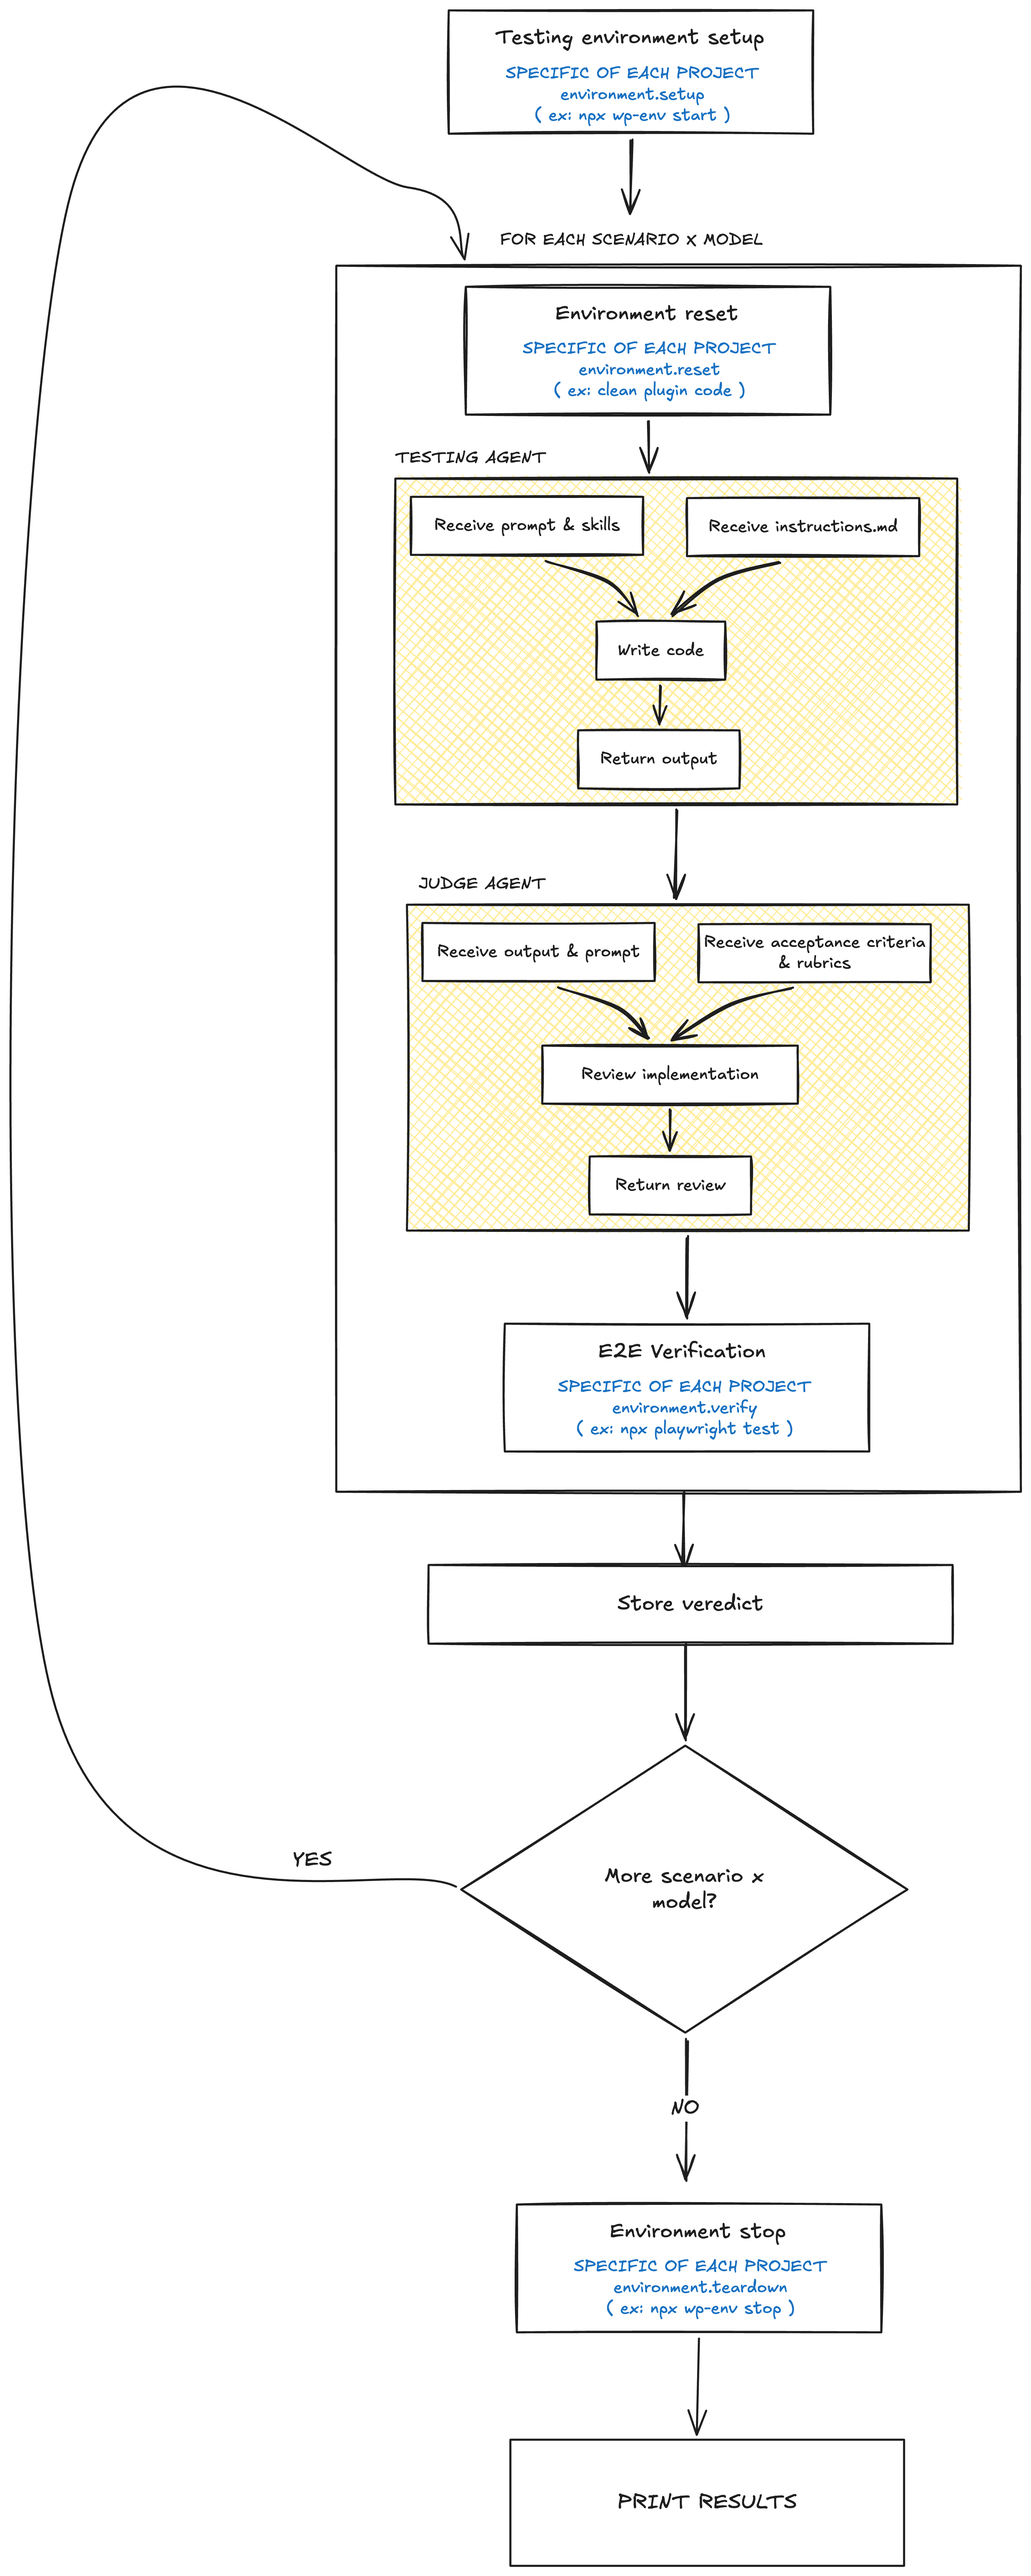
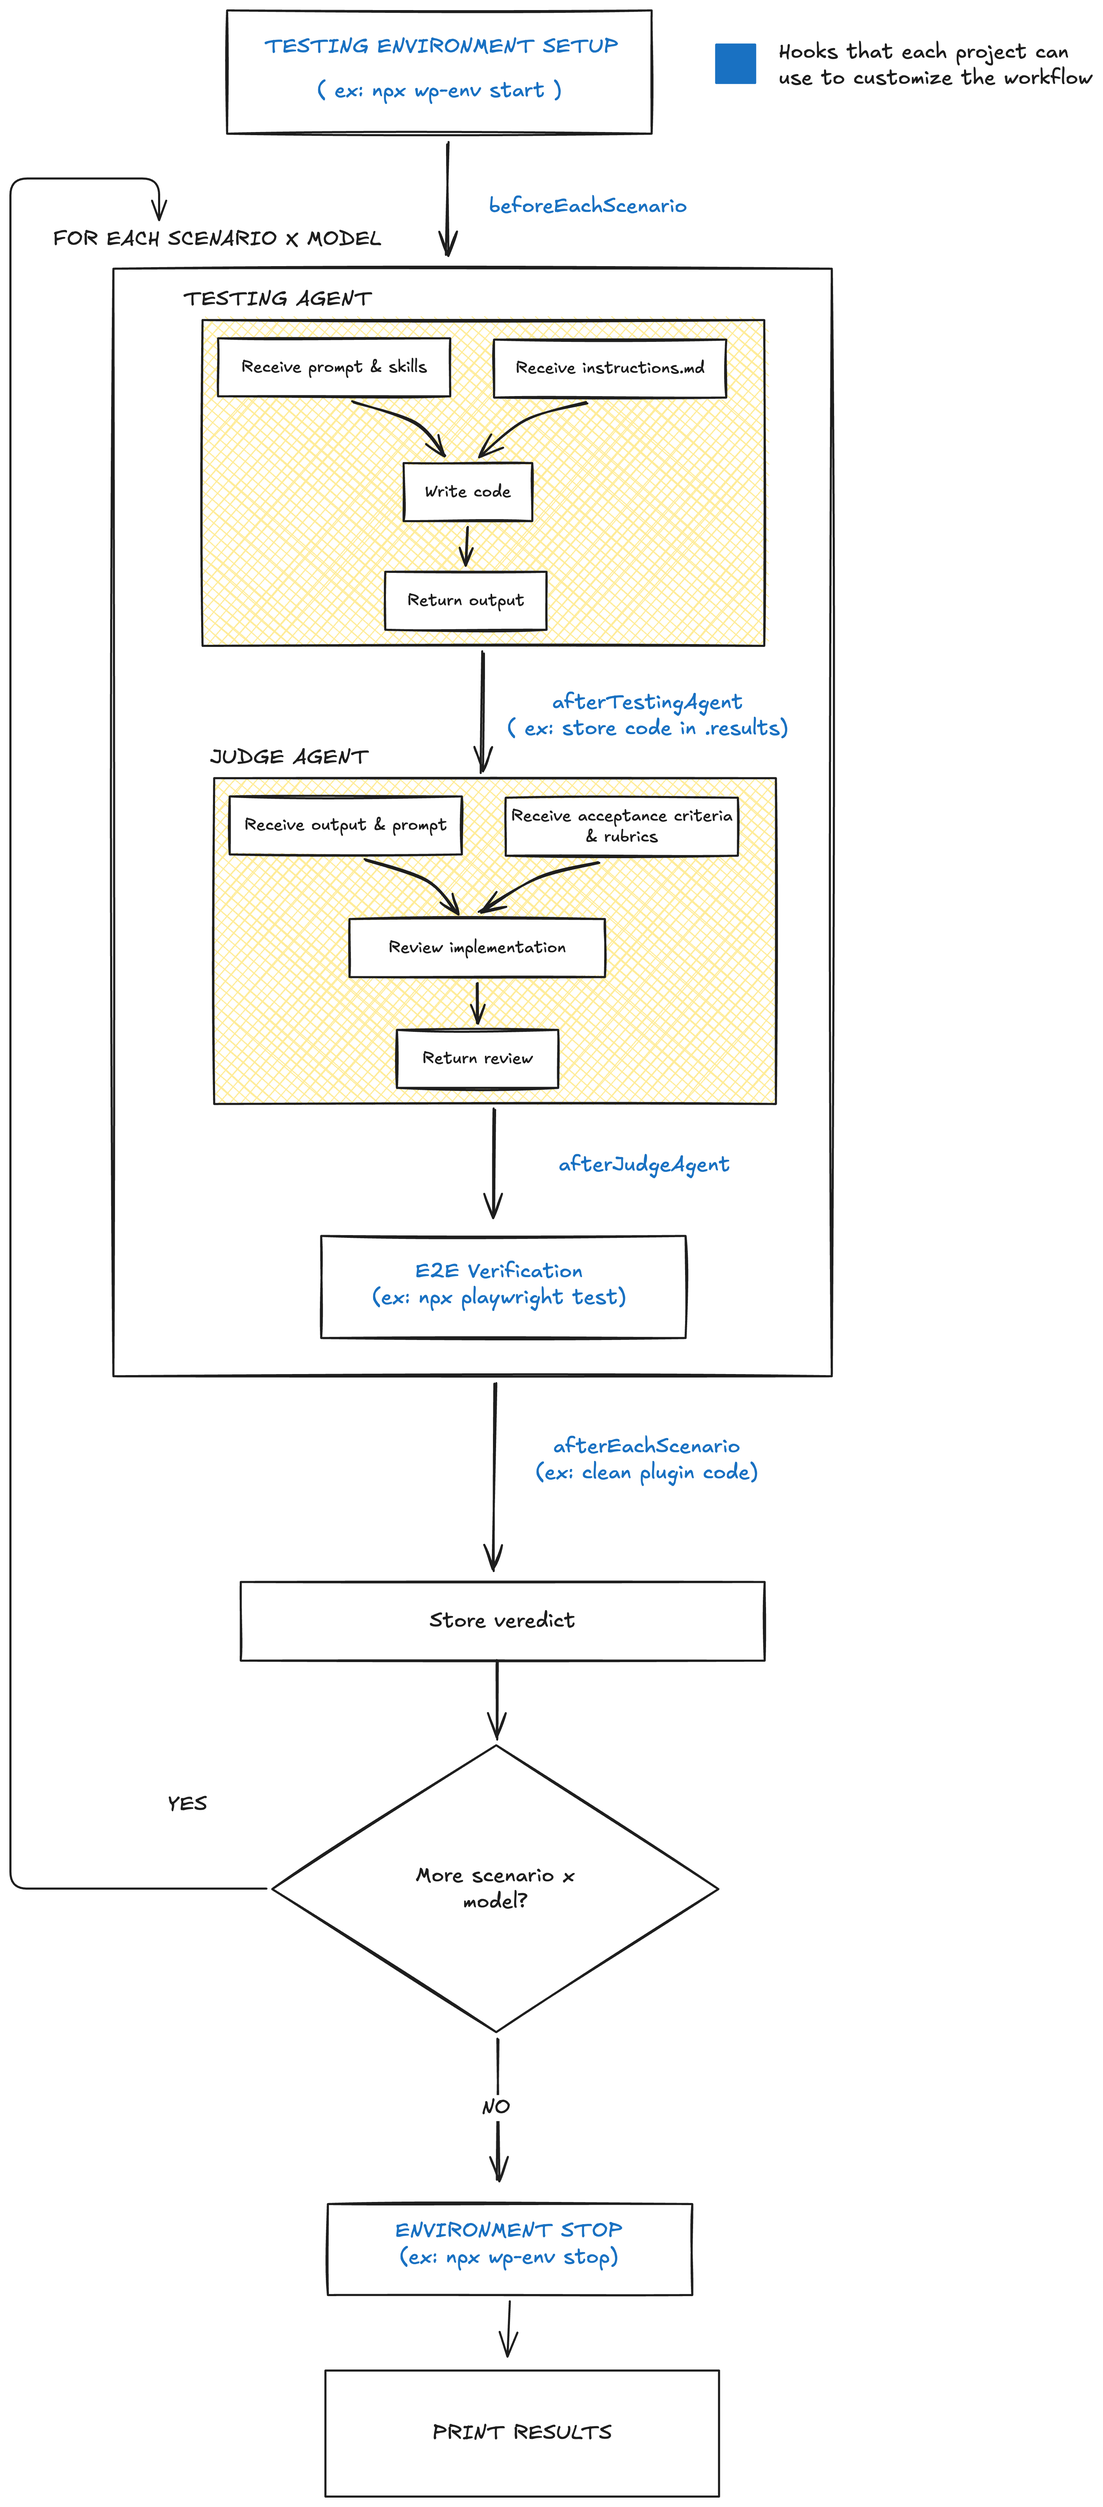
Update workflow

diff --git a/testing-project/eval/environment.md b/testing-project/eval/environment.md
@@ -4,22 +4,34 @@ How to operate the WordPress environment around each scenario run. All commands 
 
 This file is a prose spec for a future `environment.ts` that implements the harness `Environment` contract. Until that lands, an agent can follow these instructions directly.
 
+The harness executes the stages below in the order shown in `assets/skill-tester-workflow.png`:
+
+- **Lifecycle stages** (required): `## Setup`, `## Verify`, `## Teardown`. Every project must define what happens here.
+- **Hooks** (optional customization points): `## beforeEachScenario`, `## afterTestingAgent`, `## afterJudgeAgent`, `## afterEachScenario`. A hook section may be left as a no-op.
+
 ## Setup (once per run)
 
 Run:
 
     npm run env:start
 
-This boots `@wordpress/env`. WordPress comes up at http://localhost:8888 with `./eval/testing-plugin` mounted and activated.
+This boots `@wordpress/env`. WordPress comes up at http://localhost:8888 with `./eval/testing-plugin` mounted and activated in its seed state.
 
-## Reset (before each scenario)
+## beforeEachScenario
 
-Restore `eval/testing-plugin/` to its committed state so the agent starts every scenario from a clean slate:
+No-op for this project. Seed state is maintained by `## afterEachScenario` at the end of the previous pair; the first pair inherits the seed state from `## Setup`.
 
-- `eval/testing-plugin/index.php` matches its committed contents.
-- `eval/testing-plugin/src/blocks/testing-block/` contains only the committed seed files (the minimal `block.json`).
+## afterTestingAgent
 
-Any files the agent wrote during a previous scenario must be removed.
+Preserve the agent's produced plugin state immediately after the testing agent returns, so a human can inspect what each model wrote before downstream stages (judge, verify) run:
+
+    cp -R eval/testing-plugin/. <results-dir>/plugin-snapshot/
+
+`<results-dir>` is `.results/<run-id>/<model>/<scenario>/` — the same directory where `judge-result.json`, `e2e-result.json`, and `trace.json` are later written. Create the destination directory first if it does not exist.
+
+## afterJudgeAgent
+
+No-op for this project.
 
 ## Verify (after each scenario)
 
@@ -28,6 +40,59 @@ Run the scenario's end-to-end spec against the live environment:
     npm run test:e2e -- eval/scenarios/<scenario>/e2e.spec.mjs
 
 The verdict is pass when Playwright exits `0`, fail otherwise. Capture stdout and stderr as details.
+
+## afterEachScenario
+
+Restore `eval/testing-plugin/` to its seed state so the next pair starts clean. The procedure, no git involved:
+
+1. **Empty the directory without removing it.** `wp-env` bind-mounts `eval/testing-plugin/` into the container at `env:start`; if the directory's inode is replaced, the mount detaches and WordPress stops seeing the plugin. Use `rm -rf eval/testing-plugin/*` (optionally plus `rm -rf eval/testing-plugin/.[!.]*` if dotfiles are expected) — never `rm -rf eval/testing-plugin` itself.
+2. Recreate the two seed files verbatim from the blocks below.
+
+After cleanup, only these two files exist under `eval/testing-plugin/`:
+
+### `eval/testing-plugin/index.php`
+
+```php
+<?php
+/**
+ * Plugin Name: Testing Plugin
+ * Description: Harness target plugin. Agents write block code into src/blocks/testing-block/ or this file.
+ * Version:     0.1.0
+ * License:     GPL-3.0
+ */
+
+if ( ! defined( 'ABSPATH' ) ) {
+	exit;
+}
+
+add_action(
+	'init',
+	static function () {
+		$blocks_dir = __DIR__ . '/src/blocks';
+		if ( ! is_dir( $blocks_dir ) ) {
+			return;
+		}
+		foreach ( (array) glob( $blocks_dir . '/*', GLOB_ONLYDIR ) as $block_path ) {
+			if ( file_exists( $block_path . '/block.json' ) ) {
+				register_block_type( $block_path );
+			}
+		}
+	}
+);
+```
+
+### `eval/testing-plugin/src/blocks/testing-block/block.json`
+
+```json
+{
+	"$schema": "https://schemas.wp.org/trunk/block.json",
+	"apiVersion": 3,
+	"name": "testing-plugin/testing-block",
+	"title": "Testing Block",
+	"category": "widgets",
+	"textdomain": "testing-plugin"
+}
+```
 
 ## Teardown (once per run)
 
